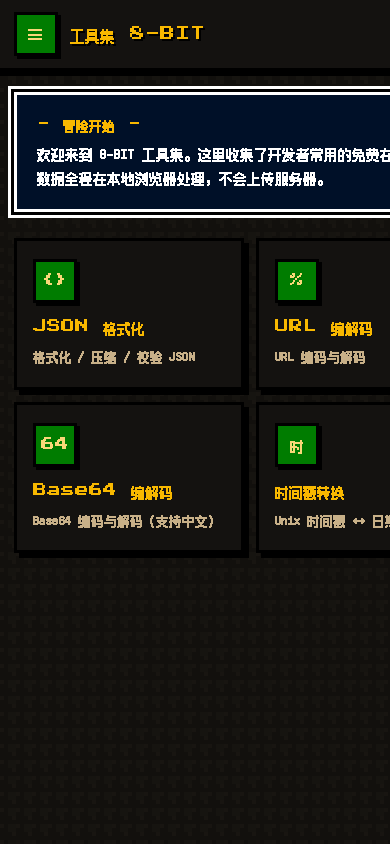
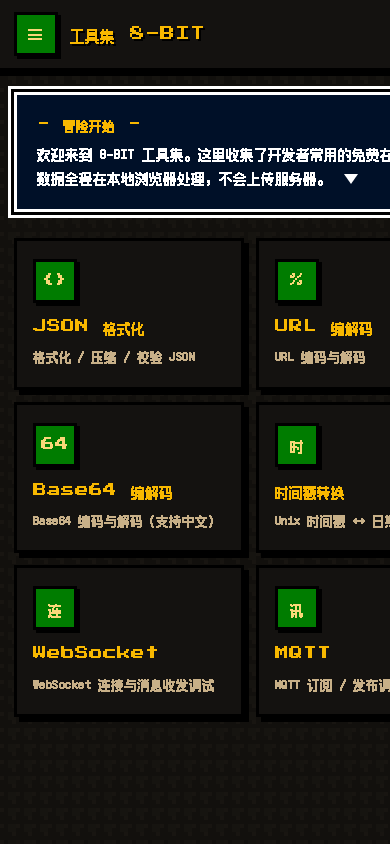
feat: 新增 WebSocket 与 MQTT 调试工具

diff --git a/index.html b/index.html
@@ -246,6 +246,32 @@ h2{font-family:var(--font-title);font-size:18px;color:var(--gold);text-shadow:2p
 }
 .io-input:focus{border-color:var(--gold)}
 
+/* ============ 连接状态（塞尔达风动画） ============ */
+.conn-status{
+  display:flex;align-items:center;gap:10px;
+  padding:8px 12px;margin-bottom:10px;
+  background:#0d0c0a;border:3px solid #000;
+  box-shadow:2px 2px 0 0 #000;
+  font-size:13px;color:var(--tan);
+  flex-shrink:0;
+}
+.conn-heart{width:20px;height:20px;flex:0 0 20px;image-rendering:pixelated}
+.conn-heart .heart-fill{transition:none}
+.conn-status[data-state="connected"] .conn-heart{animation:heartBeat 1s steps(2,end) infinite}
+.conn-status[data-state="connecting"] .conn-heart{animation:blink .5s steps(1) infinite}
+.conn-status[data-state="disconnected"] .conn-heart{animation:none}
+.conn-sparkle{
+  width:8px;height:8px;flex:0 0 8px;margin-left:auto;
+  background:var(--gold-light);
+  clip-path:polygon(50% 0,62% 38%,100% 50%,62% 62%,50% 100%,38% 62%,0 50%,38% 38%);
+  display:none;
+}
+.conn-status[data-state="connected"] .conn-sparkle{display:block;animation:sparkle .9s steps(2,end) infinite}
+@keyframes heartBeat{0%{transform:scale(1)}50%{transform:scale(1.35)}100%{transform:scale(1)}}
+@keyframes sparkle{0%,100%{opacity:1;transform:scale(1) rotate(0deg)}50%{opacity:.25;transform:scale(.55) rotate(45deg)}}
+
+.send-row{display:flex;gap:10px;margin-top:4px}
+
 /* ============ 消息框 ============ */
 .msg-box{
   position:fixed;left:50%;bottom:22px;transform:translateX(-50%);
@@ -312,6 +338,8 @@ h2{font-family:var(--font-title);font-size:18px;color:var(--gold);text-shadow:2p
         <a class="nav-item" data-tool="url" onclick="showView('url')"><span class="ico">%</span>URL 编解码</a>
         <a class="nav-item" data-tool="b64" onclick="showView('b64')"><span class="ico">64</span>Base64 编解码</a>
         <a class="nav-item" data-tool="ts" onclick="showView('ts')"><span class="ico">时</span>时间戳转换</a>
+        <a class="nav-item" data-tool="ws" onclick="showView('ws')"><span class="ico">连</span>WebSocket</a>
+        <a class="nav-item" data-tool="mqtt" onclick="showView('mqtt')"><span class="ico">讯</span>MQTT</a>
       </nav>
       <div class="side-foot">
         <div class="hearts">
@@ -356,6 +384,16 @@ h2{font-family:var(--font-title);font-size:18px;color:var(--gold);text-shadow:2p
             <div class="c-ico">时</div>
             <div class="c-name">时间戳转换</div>
             <div class="c-desc">Unix 时间戳 ↔ 日期时间</div>
+          </a>
+          <a class="card" onclick="showView('ws')">
+            <div class="c-ico">连</div>
+            <div class="c-name">WebSocket</div>
+            <div class="c-desc">WebSocket 连接与消息收发调试</div>
+          </a>
+          <a class="card" onclick="showView('mqtt')">
+            <div class="c-ico">讯</div>
+            <div class="c-name">MQTT</div>
+            <div class="c-desc">MQTT 订阅 / 发布调试</div>
           </a>
         </div>
       </section>
@@ -461,11 +499,91 @@ h2{font-family:var(--font-title);font-size:18px;color:var(--gold);text-shadow:2p
         </div>
       </section>
 
+      <!-- WebSocket -->
+      <section class="view view--tool" id="view-ws">
+        <div class="title-row"><div class="badge">连</div><h2>WebSocket 调试</h2></div>
+        <p class="tool-desc">连接 WebSocket 服务，收发消息。默认 echo 服务用于自测。</p>
+        <div class="toolbar">
+          <button class="btn" onclick="wsConnect()">连接</button>
+          <button class="btn btn--red" onclick="wsDisconnect()">断开</button>
+          <button class="btn btn--gold" onclick="wsClear()">清空日志</button>
+        </div>
+        <div class="split">
+          <div class="pane pane--in">
+            <div class="pane-head"><span class="tag">输入 INPUT</span><span class="hint">地址 + 消息</span></div>
+            <div class="field">
+              <label>WebSocket 地址</label>
+              <input class="io-input" id="ws-url" value="wss://ws.postman-echo.com/raw" placeholder="wss://ws.postman-echo.com/raw">
+            </div>
+            <div class="field">
+              <label>发送内容</label>
+              <input class="io-input" id="ws-msg" value="hello" placeholder="hello">
+            </div>
+            <div class="send-row">
+              <button class="btn" onclick="wsSend()">发送</button>
+            </div>
+          </div>
+          <div class="split-arrow"><div class="arrow"></div></div>
+          <div class="pane pane--out">
+            <div class="pane-head"><span class="tag">输出 OUTPUT</span><span class="hint">状态 + 日志</span></div>
+            <div class="conn-status" id="ws-status" data-state="disconnected">
+              <svg class="conn-heart" viewBox="0 0 16 16" shape-rendering="crispEdges"><path class="heart-fill" d="M8 14 C3 10 1 7 1 4 A3 3 0 0 1 8 2 A3 3 0 0 1 15 4 C15 7 13 10 8 14 Z" fill="#555555"/></svg>
+              <span class="conn-text">未连接</span>
+              <span class="conn-sparkle"></span>
+            </div>
+            <textarea class="io io--out" id="ws-log" readonly spellcheck="false" placeholder="连接与消息日志…"></textarea>
+          </div>
+        </div>
+      </section>
+
+      <!-- MQTT -->
+      <section class="view view--tool" id="view-mqtt">
+        <div class="title-row"><div class="badge">讯</div><h2>MQTT 调试</h2></div>
+        <p class="tool-desc">连接 MQTT Broker（WebSocket），订阅 / 发布主题。默认 EMQX 公共 Broker。</p>
+        <div class="toolbar">
+          <button class="btn" onclick="mqttConnect()">连接</button>
+          <button class="btn btn--red" onclick="mqttDisconnect()">断开</button>
+          <button class="btn btn--gold" onclick="mqttClear()">清空日志</button>
+        </div>
+        <div class="split">
+          <div class="pane pane--in">
+            <div class="pane-head"><span class="tag">输入 INPUT</span><span class="hint">Broker + 主题</span></div>
+            <div class="field">
+              <label>Broker 地址（WebSocket）</label>
+              <input class="io-input" id="mqtt-url" value="wss://broker.emqx.io:8084/mqtt" placeholder="wss://broker.emqx.io:8084/mqtt">
+            </div>
+            <div class="field">
+              <label>主题 Topic</label>
+              <input class="io-input" id="mqtt-topic" value="zelda-tools/test" placeholder="zelda-tools/test">
+            </div>
+            <div class="field">
+              <label>发送内容</label>
+              <input class="io-input" id="mqtt-msg" value="hello mqtt" placeholder="hello mqtt">
+            </div>
+            <div class="send-row">
+              <button class="btn" onclick="mqttSubscribe()">订阅</button>
+              <button class="btn btn--blue" onclick="mqttPublish()">发布</button>
+            </div>
+          </div>
+          <div class="split-arrow"><div class="arrow"></div></div>
+          <div class="pane pane--out">
+            <div class="pane-head"><span class="tag">输出 OUTPUT</span><span class="hint">状态 + 日志</span></div>
+            <div class="conn-status" id="mqtt-status" data-state="disconnected">
+              <svg class="conn-heart" viewBox="0 0 16 16" shape-rendering="crispEdges"><path class="heart-fill" d="M8 14 C3 10 1 7 1 4 A3 3 0 0 1 8 2 A3 3 0 0 1 15 4 C15 7 13 10 8 14 Z" fill="#555555"/></svg>
+              <span class="conn-text">未连接</span>
+              <span class="conn-sparkle"></span>
+            </div>
+            <textarea class="io io--out" id="mqtt-log" readonly spellcheck="false" placeholder="连接与消息日志…"></textarea>
+          </div>
+        </div>
+      </section>
+
     </main>
   </div>
 
   <div class="msg-box" id="msg-box"><span class="m-cur"></span><span class="msg-text"></span></div>
 
+<script async src="https://cdn.jsdelivr.net/npm/mqtt@5/dist/mqtt.min.js"></script>
 <script>
 function $(id){return document.getElementById(id)}
 
@@ -598,6 +716,101 @@ function tsNow(){
   setVal('ts-out',String(sec)+' 秒');
   msg('ok','已填入当前时间')
 }
+
+/* ---- 连接状态（塞尔达风） ---- */
+function setConn(id, state, text){
+  var el=$(id);
+  el.setAttribute('data-state', state);
+  el.querySelector('.conn-text').textContent=text;
+  var color = state==='connected' ? '#E4000F' : state==='connecting' ? '#FC9838' : '#555555';
+  el.querySelector('.heart-fill').setAttribute('fill', color);
+}
+
+/* ---- WebSocket ---- */
+var ws=null;
+function wsLog(type, text){
+  var el=$('ws-log');
+  var d=new Date();
+  var ts=pad(d.getHours())+':'+pad(d.getMinutes())+':'+pad(d.getSeconds());
+  var prefix = type==='in' ? '<< 收到' : type==='out' ? '>> 发送' : '-- 系统';
+  el.value += '['+ts+'] '+prefix+'  '+text+'\n';
+  el.scrollTop = el.scrollHeight;
+}
+function wsConnect(){
+  var url=val('ws-url').trim();
+  if(!url){msg('error','请输入 WebSocket 地址');return}
+  if(ws){try{ws.close()}catch(e){}}
+  setConn('ws-status','connecting','连接中…');
+  try{ ws=new WebSocket(url); }
+  catch(e){ setConn('ws-status','disconnected','地址无效'); msg('error','地址无效：'+e.message); return; }
+  ws.onopen=function(){ setConn('ws-status','connected','已连接'); wsLog('system','已连接 '+url); msg('ok','WebSocket 已连接'); };
+  ws.onmessage=function(ev){ wsLog('in', ev.data); };
+  ws.onerror=function(){ setConn('ws-status','disconnected','连接出错'); wsLog('system','连接出错'); };
+  ws.onclose=function(){ setConn('ws-status','disconnected','已断开'); wsLog('system','连接已关闭'); };
+}
+function wsSend(){
+  if(!ws || ws.readyState!==1){msg('error','请先连接');return}
+  var m=val('ws-msg');
+  if(m===''){msg('error','请输入要发送的内容');return}
+  ws.send(m); wsLog('out', m); setVal('ws-msg','');
+}
+function wsDisconnect(){
+  if(ws){try{ws.close()}catch(e){}}
+  setConn('ws-status','disconnected','已断开'); wsLog('system','手动断开');
+}
+function wsClear(){ setVal('ws-log',''); msg('ok','日志已清空'); }
+
+/* ---- MQTT ---- */
+var mqClient=null;
+function mqttLog(type, text){
+  var el=$('mqtt-log');
+  var d=new Date();
+  var ts=pad(d.getHours())+':'+pad(d.getMinutes())+':'+pad(d.getSeconds());
+  var prefix = type==='in' ? '<< 收到' : type==='out' ? '>> 发布' : '-- 系统';
+  el.value += '['+ts+'] '+prefix+'  '+text+'\n';
+  el.scrollTop = el.scrollHeight;
+}
+function mqttConnect(){
+  if(typeof mqtt==='undefined'){msg('error','MQTT 库未加载，请检查网络后刷新');return}
+  var url=val('mqtt-url').trim();
+  if(!url){msg('error','请输入 Broker 地址');return}
+  if(mqClient){try{mqClient.end(true)}catch(e){}}
+  setConn('mqtt-status','connecting','连接中…');
+  try{
+    mqClient = mqtt.connect(url, {
+      clientId:'zelda-tools-'+Math.random().toString(16).slice(2,10),
+      keepalive:30, reconnectPeriod:0, connectTimeout:8000
+    });
+  }catch(e){ setConn('mqtt-status','disconnected','地址无效'); msg('error','地址无效：'+e.message); return; }
+  mqClient.on('connect', function(){ setConn('mqtt-status','connected','已连接'); mqttLog('system','已连接 '+url); msg('ok','MQTT 已连接'); });
+  mqClient.on('message', function(topic, payload){ mqttLog('in', topic+' | '+payload.toString()); });
+  mqClient.on('error', function(e){ setConn('mqtt-status','disconnected','连接出错'); mqttLog('system','错误：'+(e&&e.message?e.message:e)); });
+  mqClient.on('close', function(){ setConn('mqtt-status','disconnected','已断开'); mqttLog('system','连接已关闭'); });
+}
+function mqttSubscribe(){
+  if(!mqClient || !mqClient.connected){msg('error','请先连接');return}
+  var topic=val('mqtt-topic').trim();
+  if(!topic){msg('error','请输入主题');return}
+  mqClient.subscribe(topic, {qos:0}, function(err){
+    if(err){msg('error','订阅失败：'+err.message)}
+    else{msg('ok','已订阅 '+topic); mqttLog('system','订阅 '+topic)}
+  });
+}
+function mqttPublish(){
+  if(!mqClient || !mqClient.connected){msg('error','请先连接');return}
+  var topic=val('mqtt-topic').trim();
+  var payload=val('mqtt-msg');
+  if(!topic){msg('error','请输入主题');return}
+  mqClient.publish(topic, payload, {qos:0}, function(err){
+    if(err){msg('error','发布失败：'+err.message)}
+    else{msg('ok','已发布'); mqttLog('out', topic+' | '+payload)}
+  });
+}
+function mqttDisconnect(){
+  if(mqClient){try{mqClient.end(true)}catch(e){}}
+  setConn('mqtt-status','disconnected','已断开'); mqttLog('system','手动断开');
+}
+function mqttClear(){ setVal('mqtt-log',''); msg('ok','日志已清空'); }
 
 /* ---- hash 路由 ---- */
 function initHash(){

diff --git a/README.md b/README.md
@@ -10,6 +10,8 @@
 | URL 编解码 | URL 编码（encodeURIComponent）与解码 |
 | Base64 编解码 | Base64 编码与解码，支持中文 UTF-8 |
 | 时间戳转换 | Unix 时间戳（秒）与日期时间互转 |
+| WebSocket | WebSocket 连接与消息收发调试 |
+| MQTT | MQTT 订阅 / 发布调试（WebSocket 连接） |
 
 ## 特点
 
